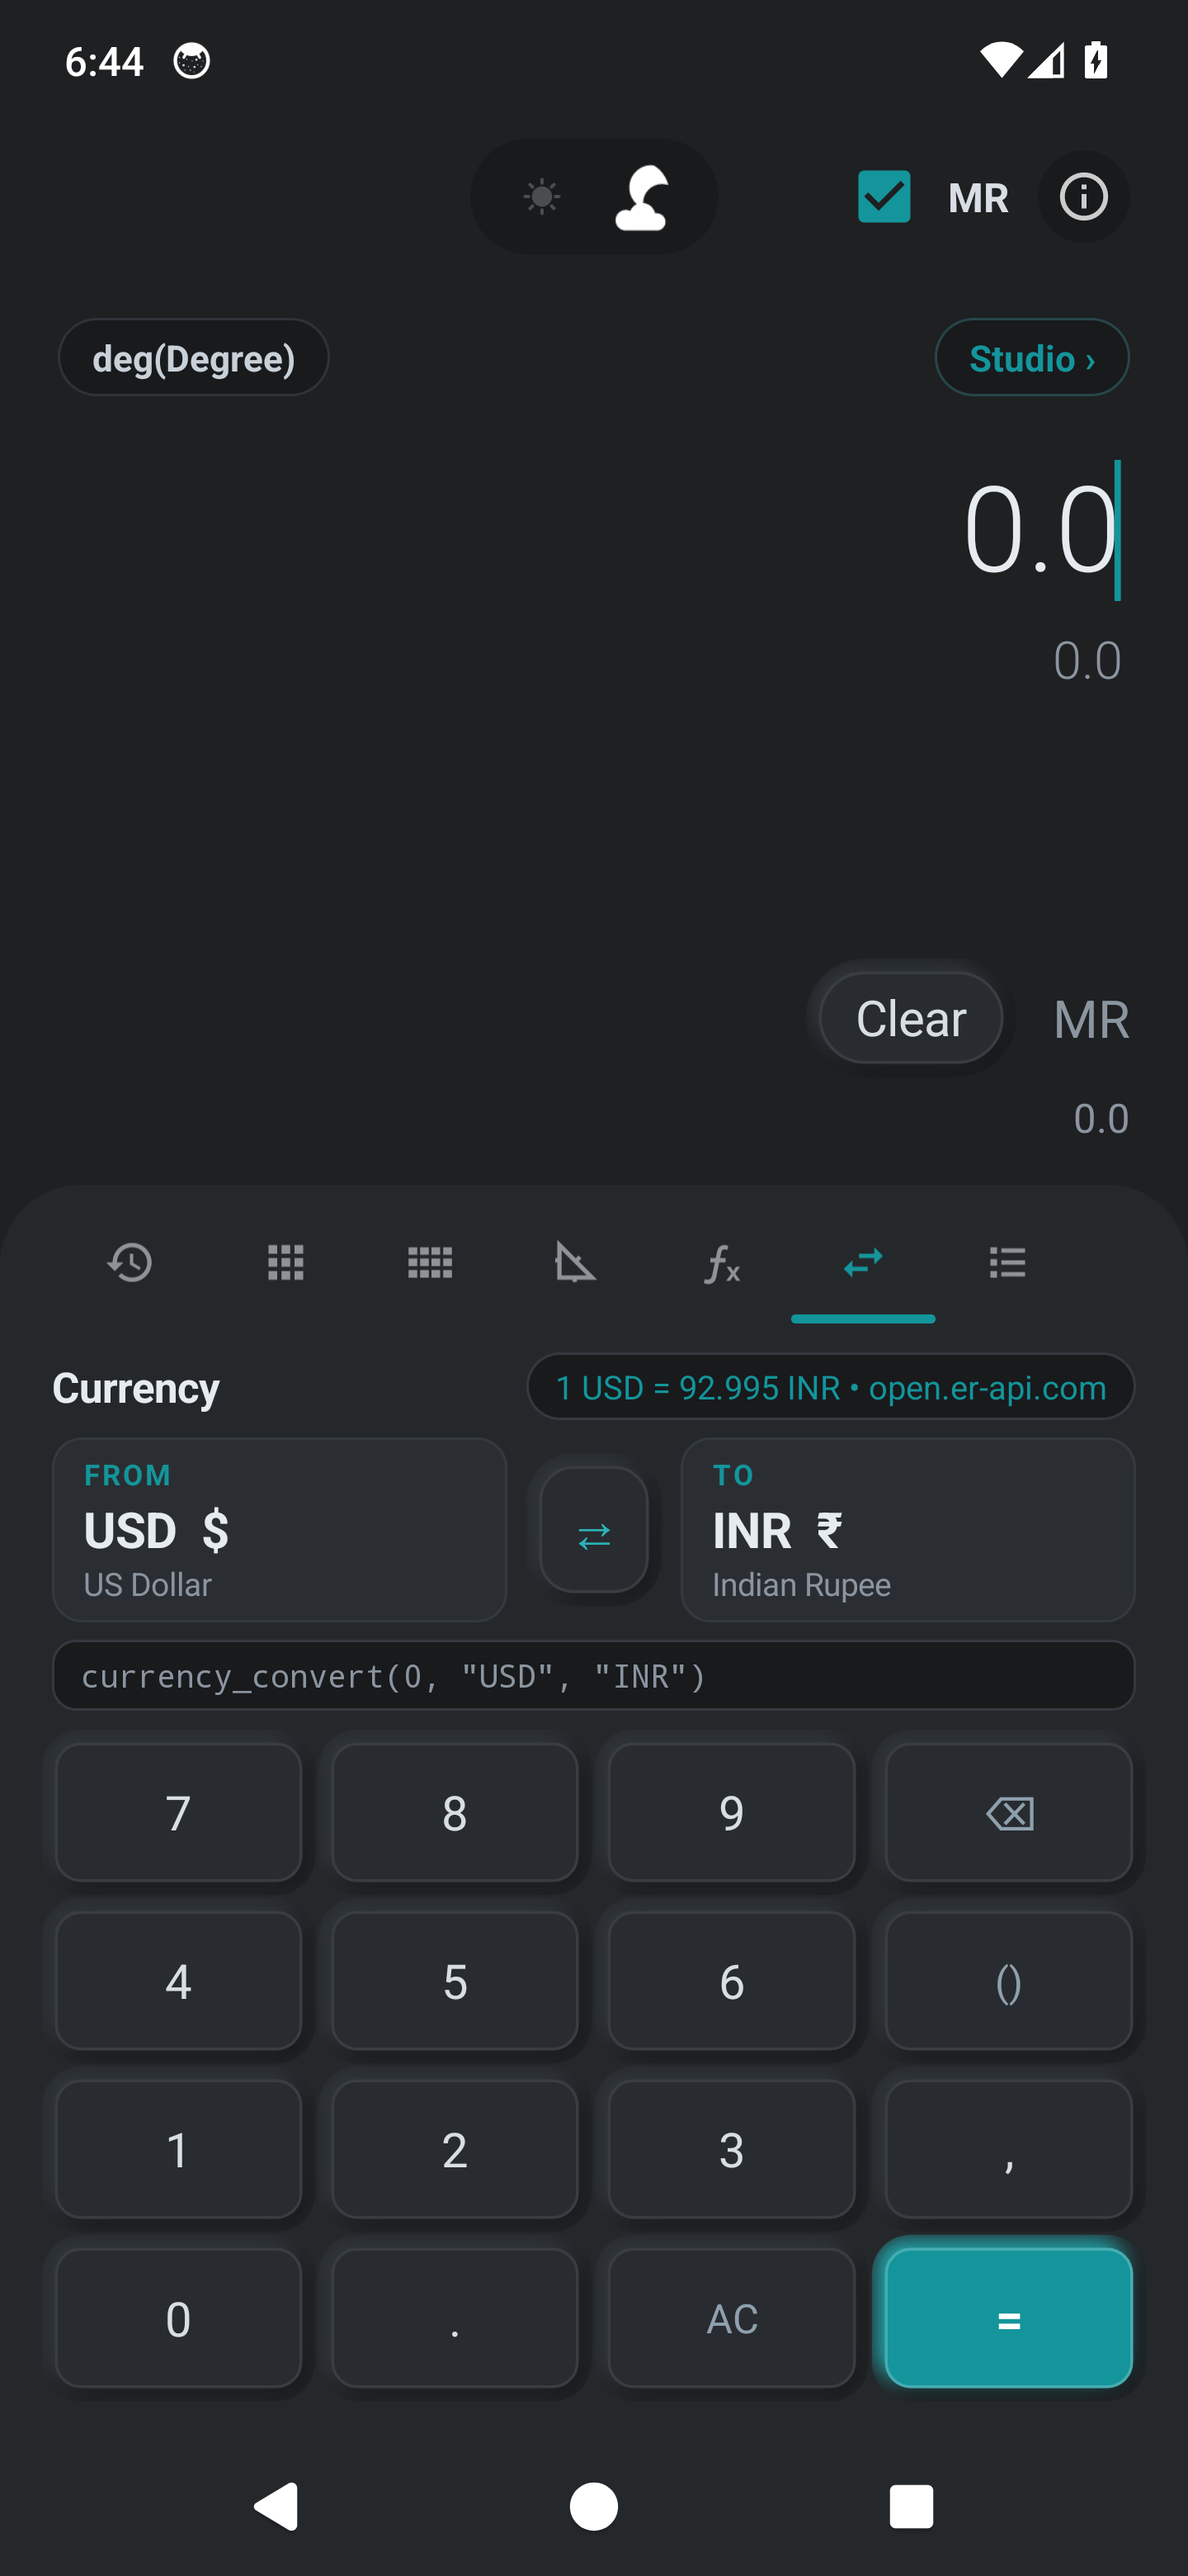
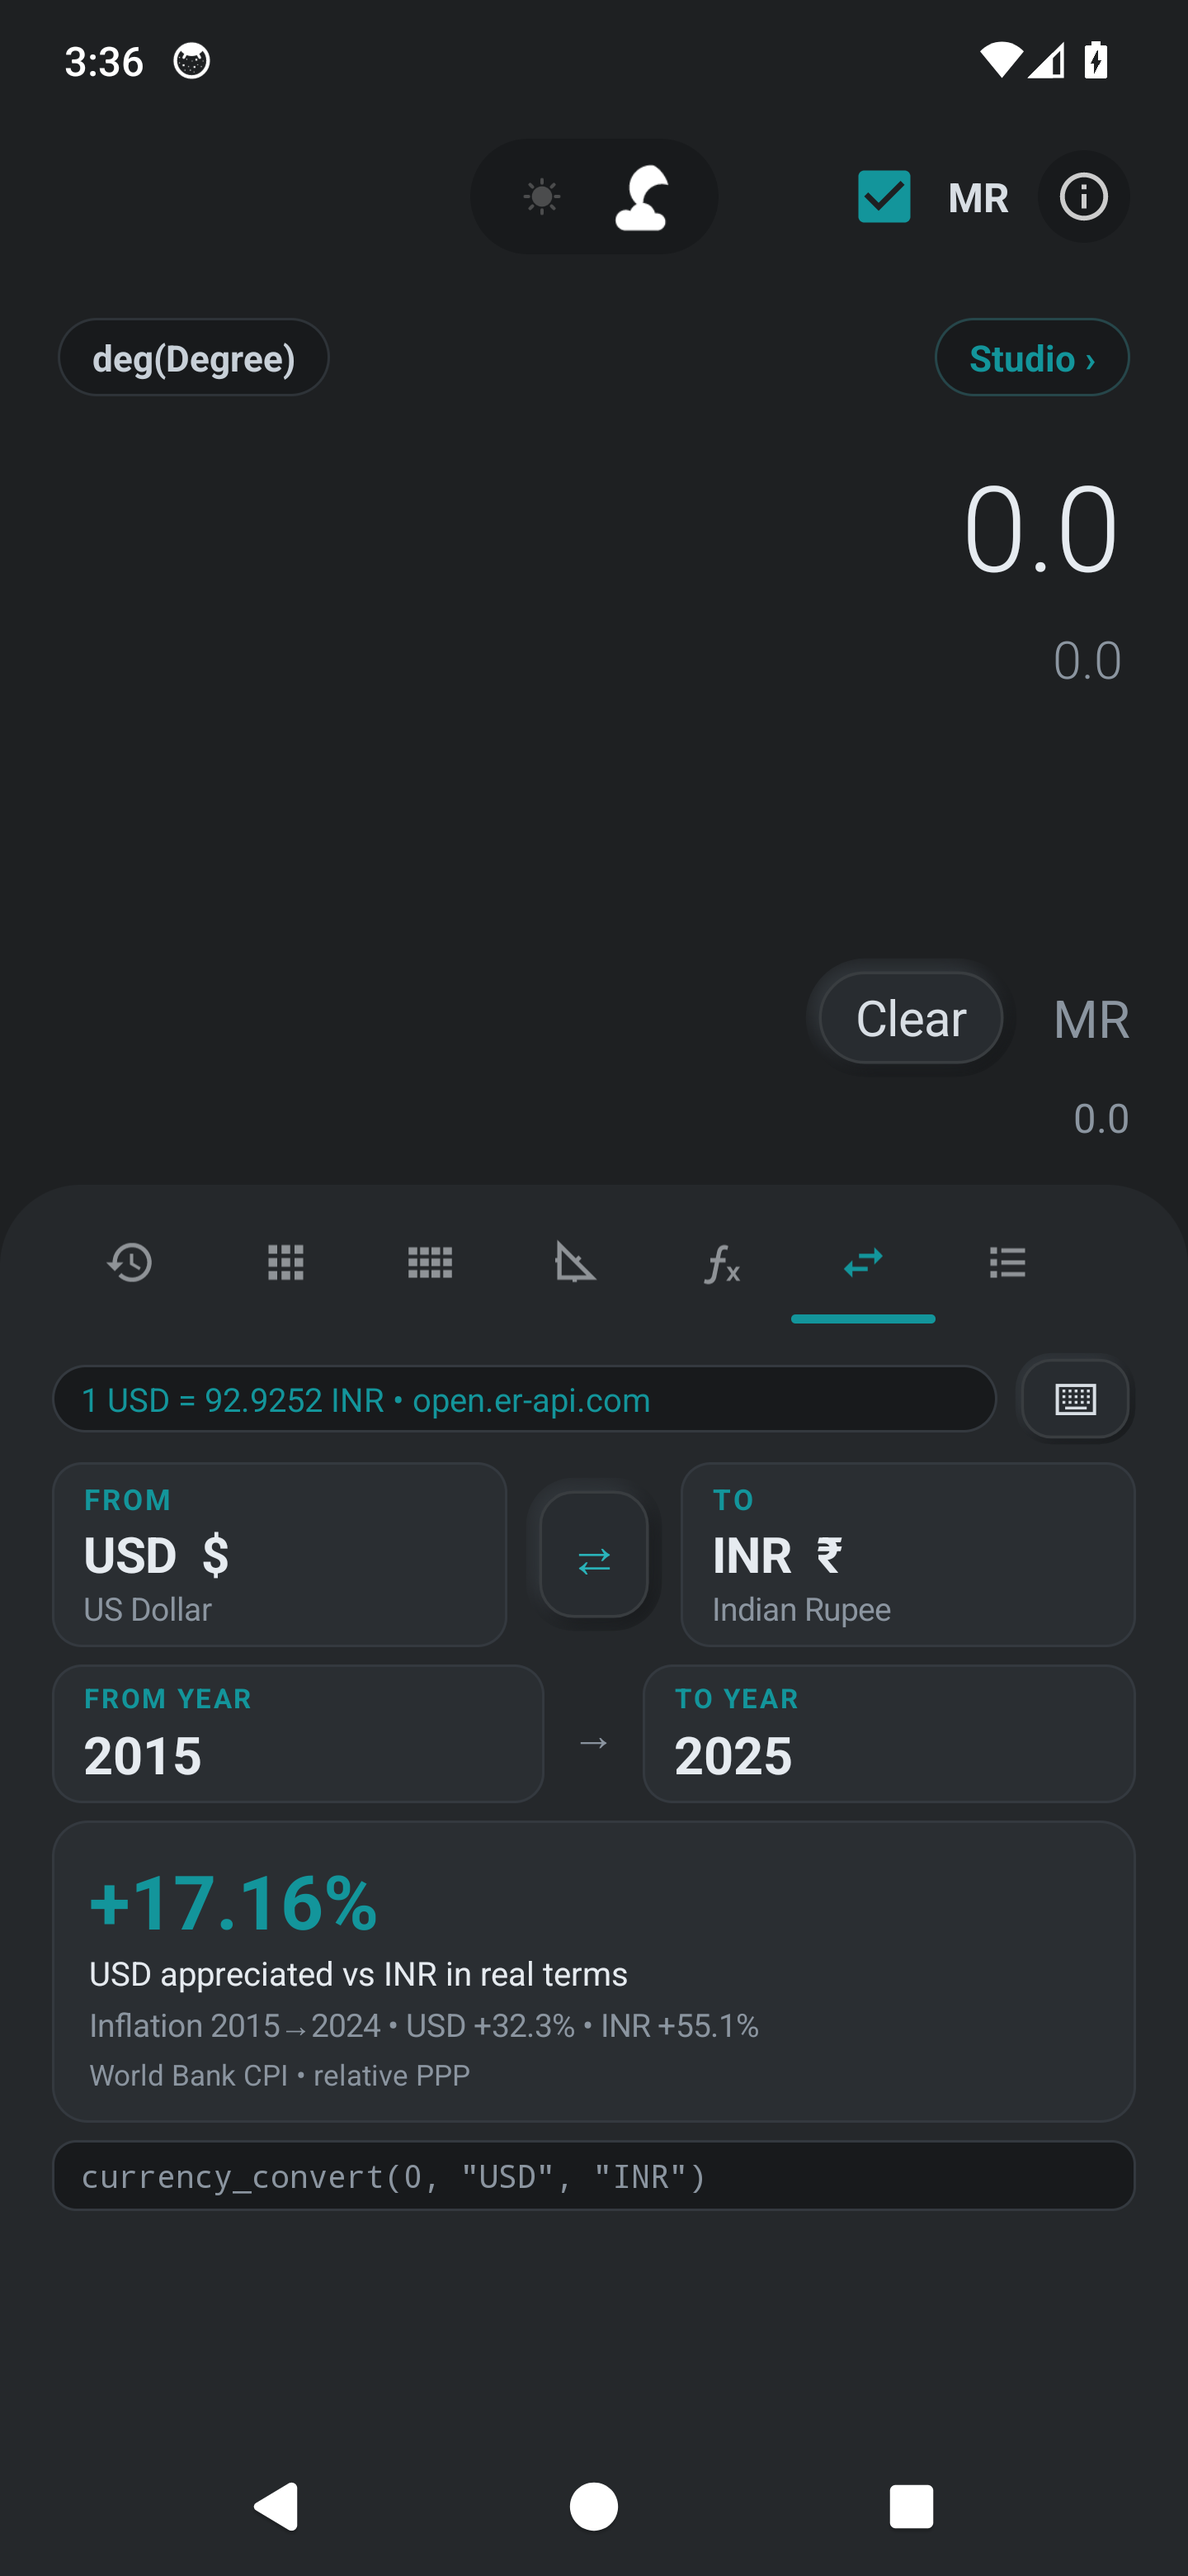
[MEP Calc] store: 1.0.20 notes, customer-facing currency real-terms screenshots (phone light/dark + landscape), v20 upload kit

diff --git a/store/listing.md b/store/listing.md
@@ -13,7 +13,7 @@ running on a Pixel 4 (light), a Pixel 6 Pro (dark) and a Pixel Tablet
 | `screenshots/phone-light-0*.png` | Phone screenshots, light theme (1080 × 2280), 7 shots including the .math Studio. |
 | `screenshots/phone-dark-0*.png` | Phone screenshots, dark theme (1440 × 3120), same 7 shots. |
 | `screenshots/phone-*-landscape-*.png` | Landscape phone captures (2280 × 1080 light, 3120 × 1440 dark) showing the two-pane layout. |
-| `screenshots/tablet-light-*.png` | Tablet captures (1600 × 2560 portrait, 2560 × 1600 landscape) of the 1.0.19 tablet shell. |
+| `screenshots/tablet-light-*.png` | Tablet captures (1600 × 2560 portrait, 2560 × 1600 landscape) of the 1.0.20 tablet shell. |
 | `../PRIVACY.md` | Privacy policy URL: <https://github.com/Amit2286658/MEP-Calc/blob/main/PRIVACY.md> |
 
 ## Listing fields
@@ -70,6 +70,9 @@ FEATURES
   (KB/MB/GB/TB/PB) and binary (KiB/MiB/GiB/TiB/PiB) prefixes.
 • Currency converter with From/To pickers and editable rates; the last fetched
   rate table is cached so it also works offline.
+• Real-terms currency analysis: pick a From and To year and see how a currency
+  actually appreciated or depreciated after inflation, using World Bank CPI data
+  (relative purchasing-power parity).
 • Math Studio: write and run your own .math modules with functions, units,
   structs and multi-file projects, right on the phone.
 • Searchable catalog of every function with its signature and description.
@@ -79,24 +82,31 @@ FEATURES
 PRIVACY
 No accounts. No advertising. No analytics. The app stores your history and
 projects only on your device. Internet access is used solely to fetch currency
-rates and optional engine updates. Full policy:
+rates, inflation statistics and optional engine updates. Full policy:
 https://github.com/Amit2286658/MEP-Calc/blob/main/PRIVACY.md
 
 MEP Calc is open source. The engine is available at
 https://github.com/Amit2286658/Math-Engine-MEP
 ```
 
-## Version notes (build 1.0.19)
+## Version notes (build 1.0.20)
 
 ```
-• Tablets now have a layout of their own, in portrait and in landscape: the
-  display and the keypad sit side by side instead of the keypad stretching
-  across the whole screen.
-• Tablet keys keep calculator proportions — capped at 132 x 104 dp and
-  centred — so portrait no longer shows a grid of long, thin keys under a
-  mostly empty display. The currency converter pad is capped to match.
-• The tablet layout keeps clear of the Android 13+ taskbar at the bottom.
-• Phones are unchanged: portrait and landscape work exactly as in 1.0.18.
+• The Currency tab has been rebuilt around real-terms analysis. Pick a From and
+  To year under the two currency cards and the app shows whether the first
+  currency actually appreciated or depreciated against the second after
+  inflation — not just the raw exchange rate.
+• Results use World Bank consumer-price data for both economies (relative
+  purchasing-power parity), fetched once and cached for offline use. An
+  "Inflation data unavailable" note appears when a series is not published.
+• The exchange rate and its provider now sit in a slim pill on the left. The
+  numeric keypad moved behind the small keyboard button on the right and drops
+  down over the tab, so the currency cards and results have the whole screen.
+• The exact engine conversion call is still shown under the results, and the
+  same C11 engine computes the real-terms percentage through the new
+  [inflation] patch.
+• Tablets and both orientations are supported; the results pane scrolls on
+  short screens.
 ```
 
 ## Pre-upload checklist
@@ -105,11 +115,12 @@ https://github.com/Amit2286658/Math-Engine-MEP
 2. Upload 8 screenshots in this order: `phone-light-01`, `-02`, `-03`, `-05`,
    `-06`, `-07-studio`, `phone-dark-01`, `phone-dark-07-studio` (the rest are
    spares; every shot is a real capture, no mockups).
-   Then add `phone-light-landscape-01` and `phone-dark-landscape-05` after the
-   portrait set, and `tablet-light-portrait-01` + `tablet-light-landscape-01`
-   last to show the tablet shell in both orientations.
+   Then add `phone-light-landscape-01`, `phone-light-landscape-05` and
+   `phone-dark-landscape-05` after the portrait set, and
+   `tablet-light-portrait-01` + `tablet-light-landscape-01` last to show the
+   tablet shell in both orientations.
 3. Paste the short and full description above.
 4. Paste the privacy policy URL.
-5. Upload `ecalc-release-v19.apk` (signed, universal, from the
-   `ecalc-release-apk-v19` CI artifact) — **not** any `*-debug-*` or
+5. Upload `ecalc-release-v20.apk` (signed, universal, from the
+   `ecalc-release-apk-v20` CI artifact) — **not** any `*-debug-*` or
    `*CI-ONLY*` artifact.
